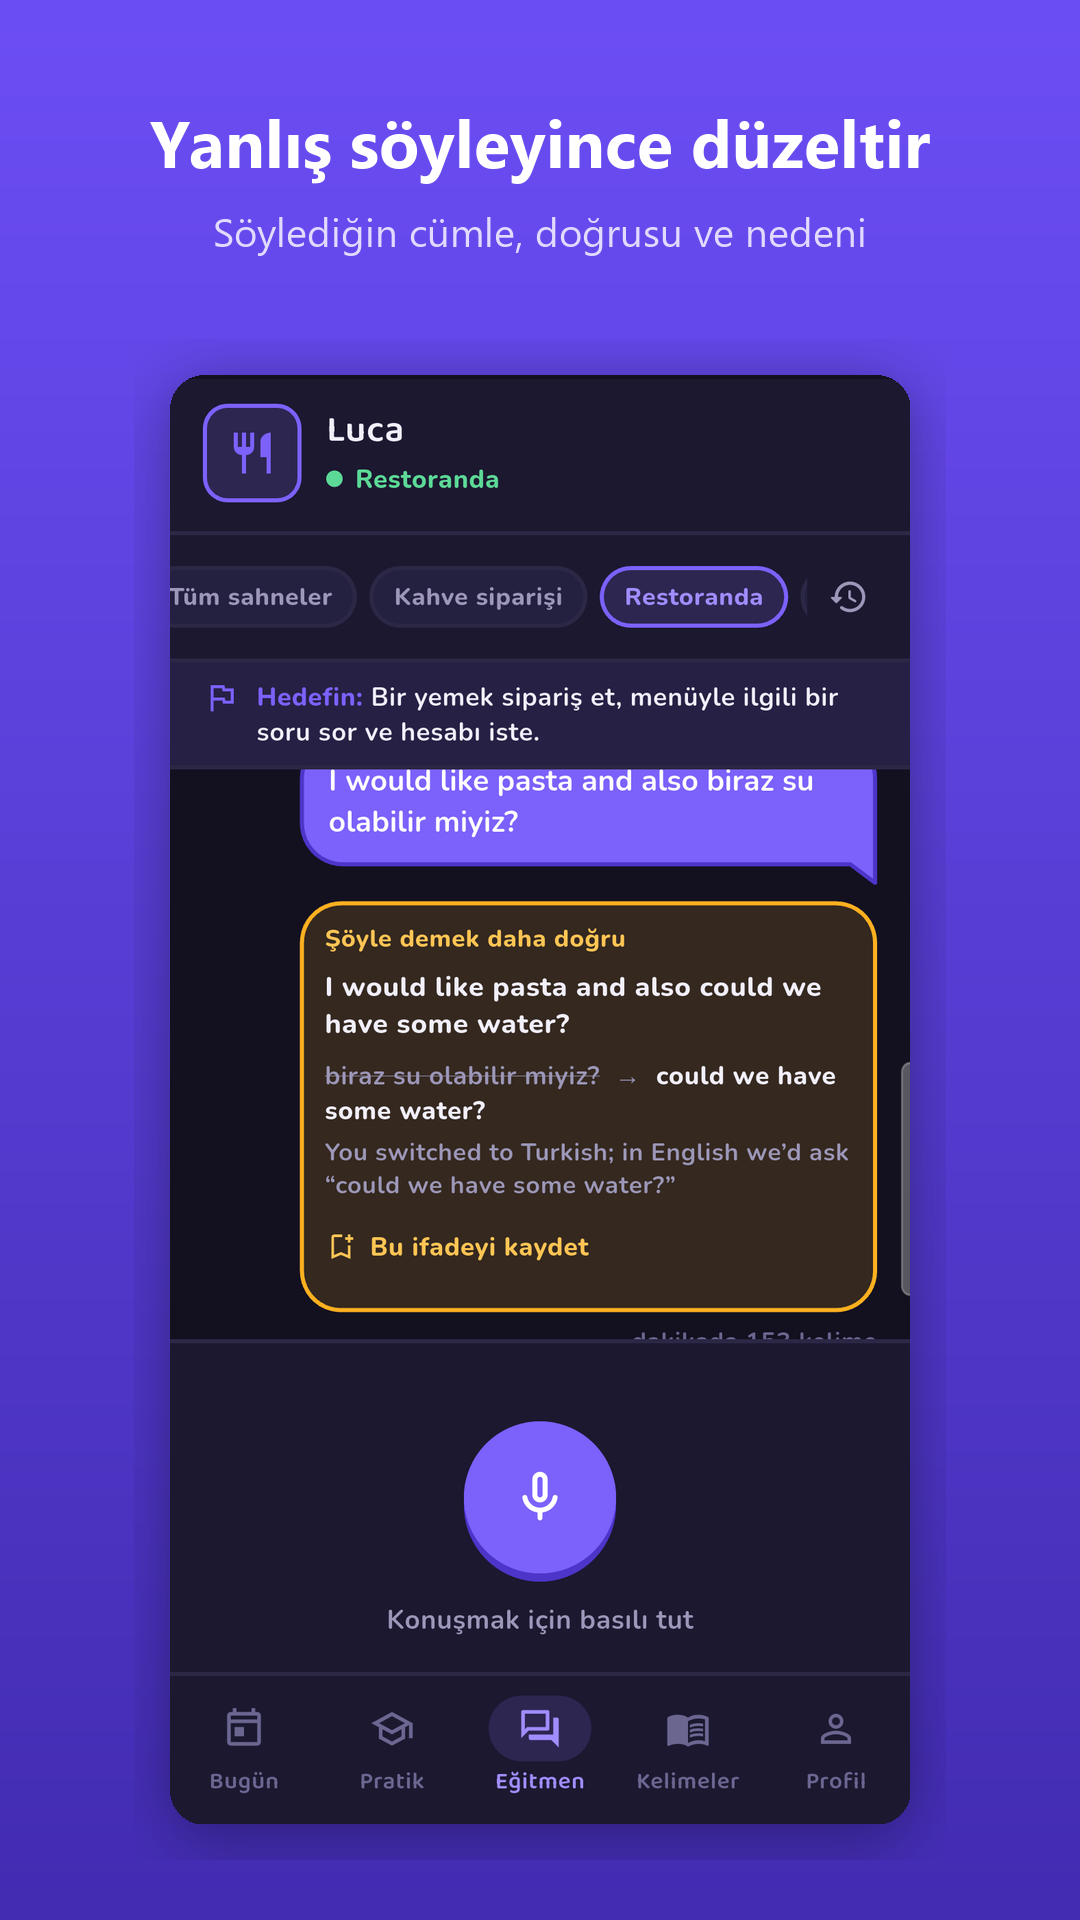
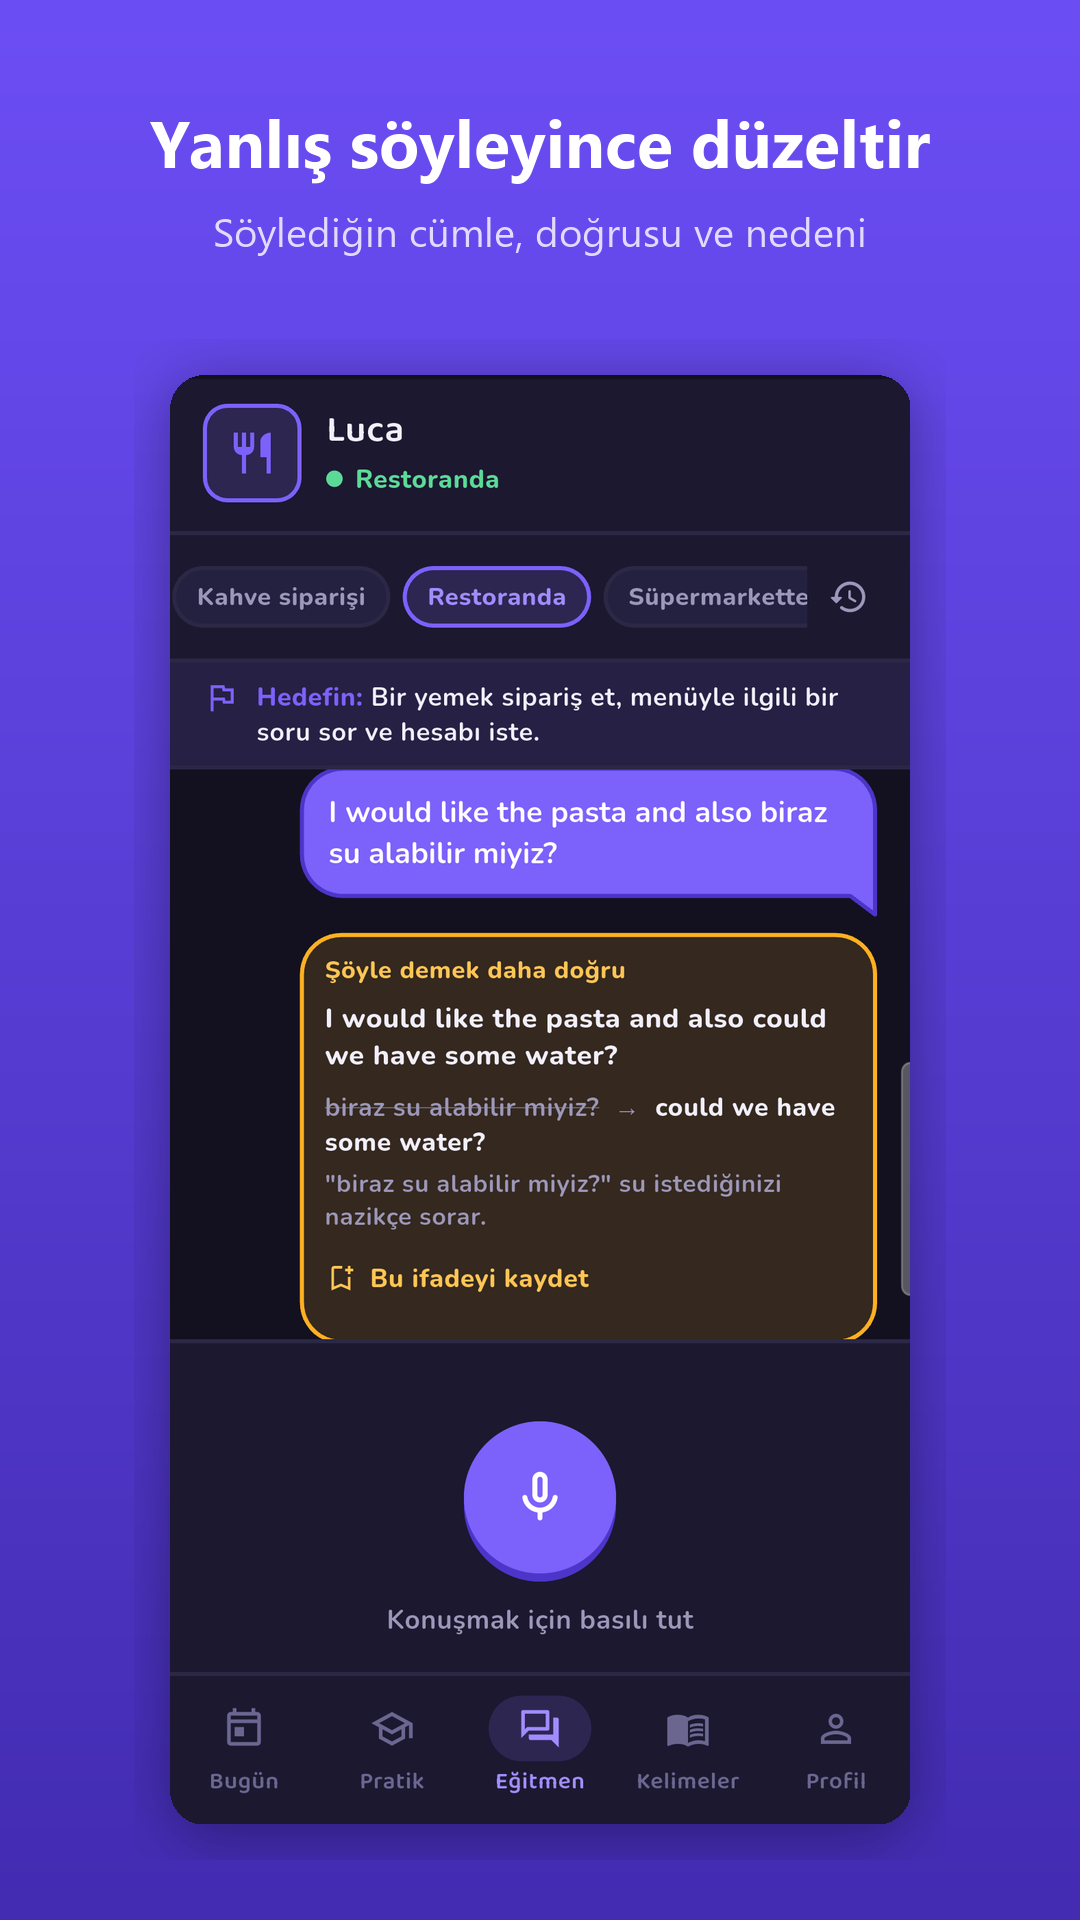
docs(store): the first frame's reason line is in the learner's language now
The frame committed this morning had the card explaining a Turkish learner's
mistake in English. That was the leak fixed since: the phone's stored native
language stayed English across an account change, the app sent it with every
request, and the server's own guard stayed out of the way because it had been
told this learner reads English.

Retaken tonight on a clean install that answers Turkish in onboarding, and the
card now reads: "biraz su alabilir miyiz?" su istediginizi nazikce sorar. The
learner's own sentence is in the frame above it, half English and half Turkish,
which is the whole listing in one picture.

Changed region(s): [[0.275, 0.375, 0.825, 0.7188], [0.3667, 0.2812, 0.7333, 0.3438], [0.1833, 0.2812, 0.2444, 0.3125]]

diff --git a/store/make_store.py b/store/make_store.py
@@ -82,9 +82,11 @@ SHOTS_EN = [
 SHOTS = [
     # First, because it is the one thing here nothing else on the store does: the
     # learner said it wrong out loud, and the card says what to say instead and why.
-    # Captured on the phone on 20 Sep; the explanation line came back in English on a
-    # Turkish account, which is a bug, not a caption choice -- see the note in
-    # ChatbotService.inLearnersLanguage.
+    # Captured on the phone on 20 Sep, and retaken the same evening: the first frame's
+    # explanation line came back in English because the account's stored native language
+    # was English -- the leak fixed in AuthService._clearLocalLearningState. On a fresh
+    # install that answers Turkish in onboarding, the line arrives in Turkish, which is
+    # what the listing promises and what this frame now shows.
     ('09_correction.png', 'Yanlış söyleyince düzeltir',
      'Söylediğin cümle, doğrusu ve nedeni'),
     ('01_today.png', 'Bugün ne yapacağın belli', 'Plan sırayla ilerler'),

diff --git a/store/README.md b/store/README.md
@@ -48,8 +48,11 @@ emin olmadığında açılıyor. İki denemenin karelerinde de transkripsiyon do
 çıktı ve ekran hiç görünmedi; o yüzden set sekiz değil dokuz kare ve ilk kare
 kartın kendisi.
 
-Karttaki açıklama satırı ("You switched to Turkish...") Türkçe hesapta
-**İngilizce** geldi. Bu bir hata; düzeldiğinde kare yeniden çekilmeli.
+İlk çekimde karttaki açıklama satırı Türkçe hesapta **İngilizce** geliyordu. Sebebi
+hesabın telefonda saklı ana dilinin İngilizce kalmasıydı (bkz.
+`AuthService._clearLocalLearningState`). Aynı akşam temiz kurulumla, onboarding'de
+Türkçe seçilerek yeniden çekildi; şimdiki karede açıklama Türkçe:
+*"biraz su alabilir miyiz?" su istediğinizi nazikçe sorar.*
 
 ## Yeniden üretmek
 
